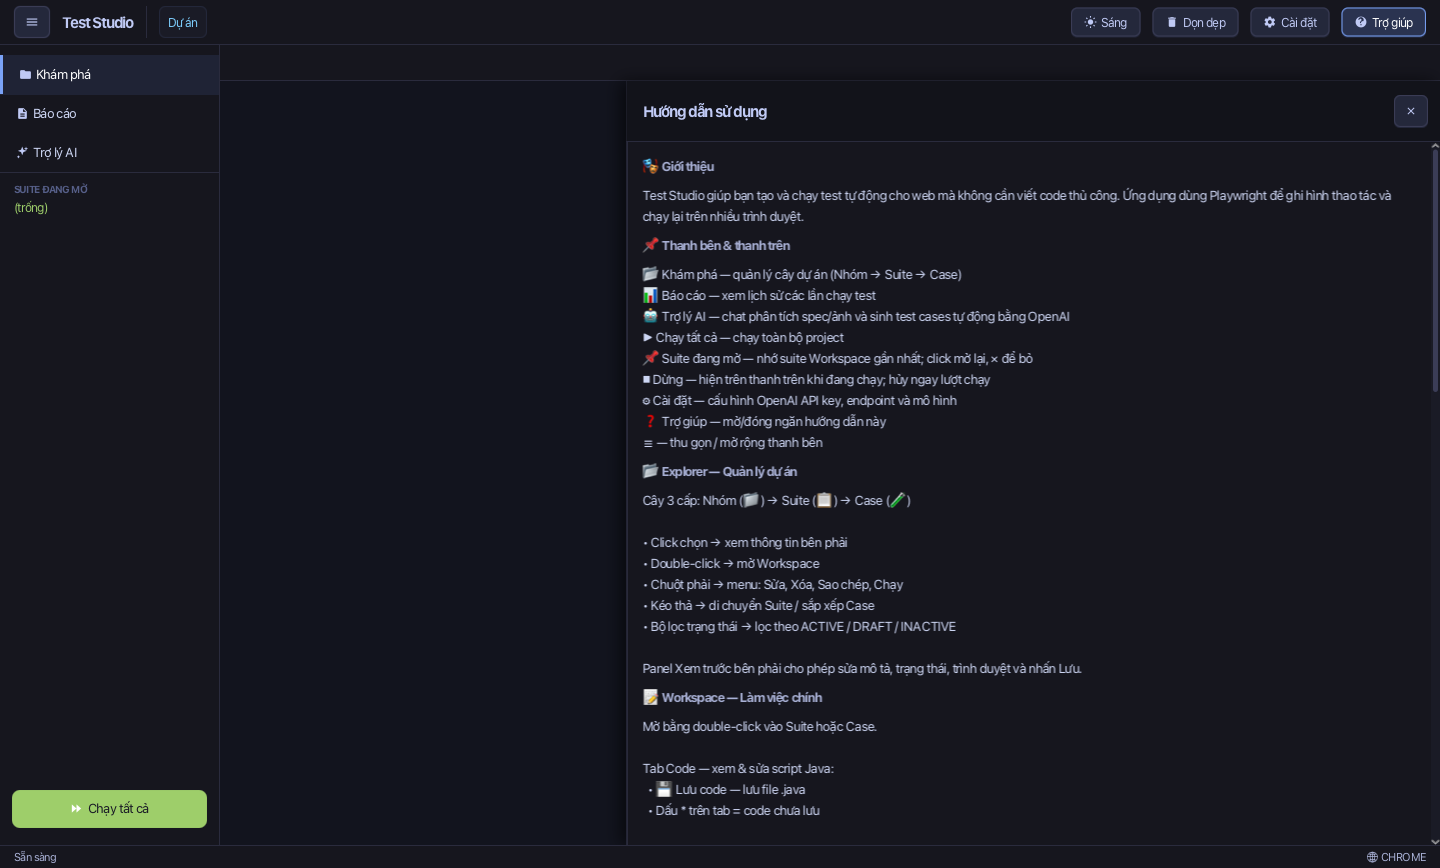
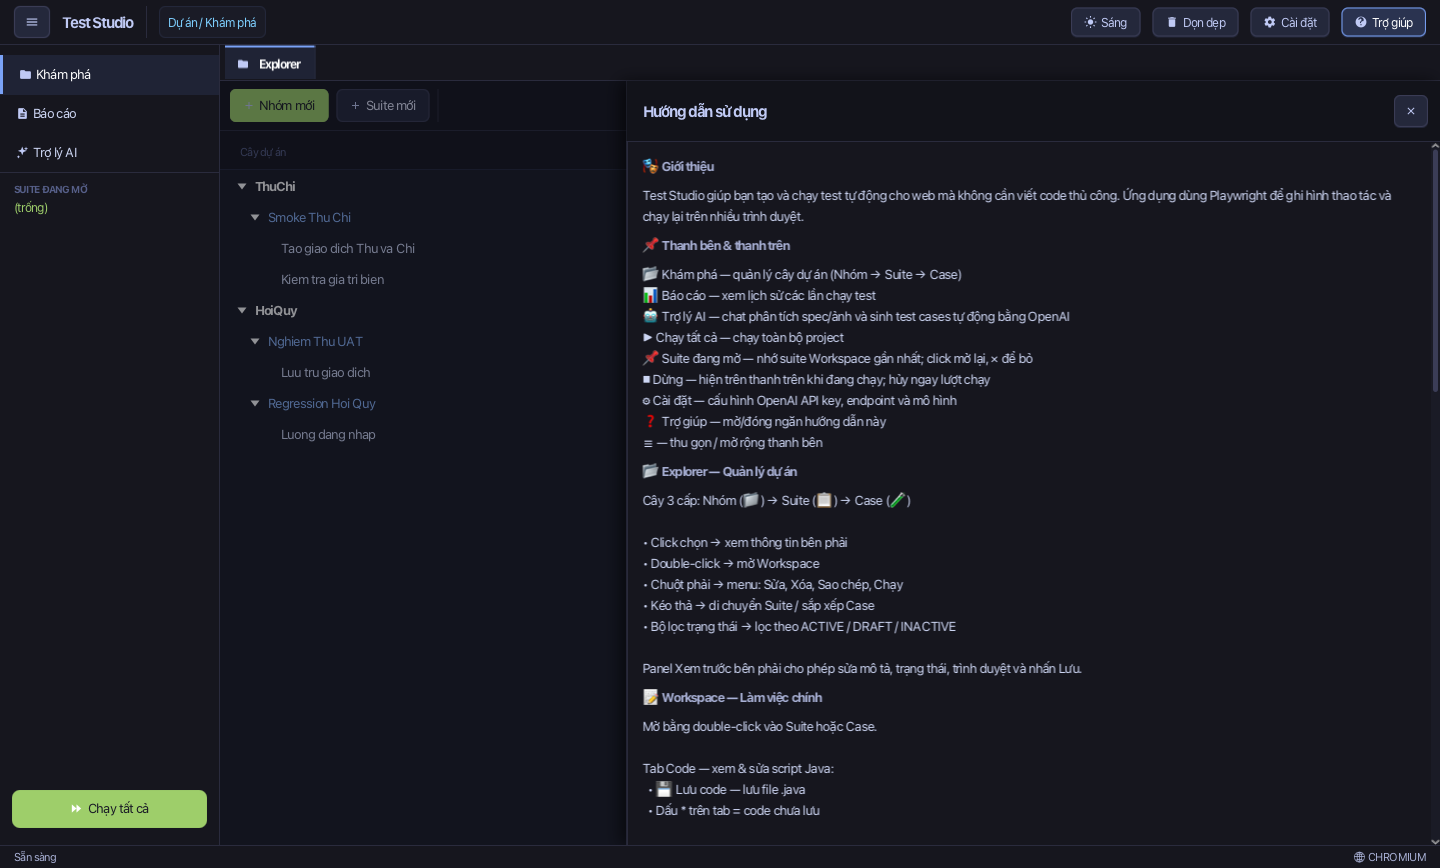
docs(guide): capture real UI screenshots in dark and light themes
Replaces the placeholder captures with screenshots rendered from the
app's own FXML/CSS/controllers on seeded sample data (ThuChi, HoiQuy
suites), one JVM per screen: Explorer, Workspace with a real script,
Assertion Builder with real assertions, Reports list, Report detail,
AI Assistant, Help drawer, and the New Group / New Case / Settings
dialogs. Every screen is captured in both themes; the guide shows the
dark image plus the light counterpart and documents the theme switch.

diff --git a/docs/guide/USER_GUIDE.md b/docs/guide/USER_GUIDE.md
@@ -92,11 +92,21 @@ scripts\build-portable.bat
 
 Lệnh trên tạo gói trong `dist/` chứa JRE, Node.js và Chromium; giải nén và chạy `run.sh` / `run.bat`. Máy đích **không cần** JDK, Node hay Maven. Chi tiết đóng gói: [docs/BUILD.md](../BUILD.md). Có cả script tạo bộ cài (`scripts/build-installer.sh` / `.bat`).
 
+### 2.4. Chủ đề Tối và Sáng
+
+Mọi màn hình trong tài liệu này có **hai phiên bản ảnh**: chủ đề Tối (mặc định, `images/01-explorer.png`) và chủ đề Sáng (`images/light-01-explorer.png`). Chuyển bằng nút **Sáng / Tối** ở góc trên phải — giao diện đổi ngay, không cần khởi động lại.
+
 ---
 
 ## 3. Giao diện tổng quan
 
-![Màn hình Explorer — giao diện chính của Test Studio](images/01-explorer.png)
+**Chủ đề Tối (mặc định):**
+
+![Màn hình Explorer — giao diện chính của Test Studio, chủ đề Tối](images/01-explorer.png)
+
+**Chủ đề Sáng:**
+
+![Cùng màn hình Explorer ở chủ đề Sáng](images/light-01-explorer.png)
 
 Bố cục gồm bốn vùng cố định:
 
@@ -126,6 +136,8 @@ Explorer tổ chức kiểm thử theo **ba cấp**: `Nhóm → Suite → Case`,
 
 ### 4.1. Bố cục
 
+![Explorer — chủ đề Sáng, với cây ThuChi / HoiQuy](images/light-01-explorer.png)
+
 - **Cột trái** — cây dự án. Mỗi dòng có nhãn trạng thái: `● Đang hoạt động` (Suite ACTIVE), `● Sẵn sàng` (Case Ready), `● Nháp` (Draft/DRAFT), `● Ngừng` (Inactive/INACTIVE).
 - **Cột phải — Xem trước** — thông tin của mục đang chọn (tên, mô tả, trạng thái, thống kê `Nhóm / Suite / Case`), kèm nút **Sửa** để cập nhật metadata ngay tại Explorer.
 - **Thanh công cụ** — `+ Nhóm mới`, `+ Suite mới`, ô `Tìm theo tên…`, bộ lọc trạng thái (`Tất cả`, `Hoạt động`, `Nháp`, `Ngừng`).
@@ -150,9 +162,15 @@ Explorer tổ chức kiểm thử theo **ba cấp**: `Nhóm → Suite → Case`,
 
 ## 5. Tạo Nhóm / Suite / Case
 
-Bấm **+ Nhóm mới**, **+ Suite mới** (Explorer) hoặc **+ Case mới** (Workspace) để mở biểu mẫu:
+Bấm **+ Nhóm mới**, **+ Suite mới** (Explorer) hoặc **+ Case mới** (Workspace) để mở biểu mẫu.
 
-![Hộp thoại tạo Nhóm mới](images/02-dialog-new-group.png)
+| Tạo Nhóm mới (Tối) | Tạo Case mới (Tối) |
+|---|---|
+| ![Hộp thoại Tạo nhóm mới](images/02-dialog-new-group.png) | ![Hộp thoại Tạo case mới trong suite](images/09-dialog-new-case.png) |
+
+| Tạo Nhóm mới (Sáng) | Tạo Case mới (Sáng) |
+|---|---|
+| ![Hộp thoại Tạo nhóm mới ở chủ đề Sáng](images/light-02-dialog-new-group.png) | ![Hộp thoại Tạo case mới ở chủ đề Sáng](images/light-09-dialog-new-case.png) |
 
 | Cấp | Trường bắt buộc | Trường tuỳ chọn |
 |---|---|---|
@@ -172,7 +190,9 @@ Bấm **+ Nhóm mới**, **+ Suite mới** (Explorer) hoặc **+ Case mới** (W
 
 Mở bằng double-click vào Suite trong Explorer.
 
-![Workspace với danh sách case, trình soạn code và danh mục assertion](images/03-workspace.png)
+![Workspace — danh sách case, trình soạn code và danh mục assertion (chủ đề Tối)](images/03-workspace.png)
+
+![Cùng Workspace ở chủ đề Sáng](images/light-03-workspace.png)
 
 ### 6.1. Các vùng trong Workspace
 
@@ -231,9 +251,11 @@ Nút **Xuất Excel** trong Workspace xuất danh sách case của suite hiện 
 
 Mở bằng nút **+ Quản lý Asserts** trong Workspace (chọn case trước).
 
-![Assertion Builder](images/04-assert-builder.png)
+![Assertion Builder — danh sách assertion của case (chủ đề Tối)](images/04-assert-builder.png)
 
-> Ảnh chụp bố cục: tiêu đề, ô tìm, danh sách assertion, hàng thêm mới (Loại / Giá trị / Trạng thái / Thêm), hàng Locator, tuỳ chọn *Khớp chính xác* + *Timeout*, và nút `Đóng` / `Lưu Assertions`.
+![Assertion Builder ở chủ đề Sáng](images/light-04-assert-builder.png)
+
+> Ảnh chụp cho thấy đủ các thành phần: tiêu đề, ô tìm, danh sách assertion (kèm nút **Xóa**), hàng thêm mới (Loại / Giá trị / Trạng thái / Thêm), hàng Locator, tuỳ chọn *Khớp chính xác* + *Timeout*, và nút `Đóng` / `Lưu Assertions`.
 
 ### 7.1. Thành phần
 
@@ -281,13 +303,17 @@ Trong một case, **mọi assertion ACTIVE đều được thực thi** dù có 
 
 Mở bằng `Báo cáo` ở thanh bên.
 
-![Trang Báo cáo — lịch sử các lượt chạy](images/05-reports.png)
+![Trang Báo cáo — lịch sử các lượt chạy (chủ đề Tối)](images/05-reports.png)
+
+![Trang Báo cáo ở chủ đề Sáng](images/light-05-reports.png)
 
 Cột: **Mã chạy**, **Phạm vi** (Case / Suite / Group / All), **Mục tiêu**, **Kết quả** (`x Đạt · y Lỗi · z Bỏ qua`), **Thời gian**, **Trình duyệt**, **Bắt đầu**, **Thao tác** (`Mở`, `Html`, `Excel`, `Xóa`). Bộ lọc phía trên: phạm vi, kết quả, suite; nút `Làm mới`.
 
 ### 8.2. Chi tiết lượt chạy
 
-![Chi tiết báo cáo](images/08-report-detail.png)
+![Chi tiết báo cáo (chủ đề Tối)](images/08-report-detail.png)
+
+![Chi tiết báo cáo ở chủ đề Sáng](images/light-08-report-detail.png)
 
 - **Tổng quan** kèm `Xuất HTML`, `Xuất Excel`, `Xóa báo cáo`, `Quay lại`; bộ lọc trạng thái.
 - Bảng **Case**: tên, suite, trạng thái, thời gian, cột **Bằng chứng** (mở ảnh chụp), lý do lỗi.
@@ -309,7 +335,9 @@ File xuất mặc định nằm trong `data/exports/`; hộp thoại lưu cho ph
 
 Mở bằng `Trợ lý AI` ở thanh bên.
 
-![Trang Trợ lý AI](images/06-ai-assistant.png)
+![Trang Trợ lý AI (chủ đề Tối)](images/06-ai-assistant.png)
+
+![Trang Trợ lý AI ở chủ đề Sáng](images/light-06-ai-assistant.png)
 
 ### 9.1. Bố cục
 
@@ -366,7 +394,9 @@ Nút **Sáng/Tối** đổi giao diện tức thời (không cần khởi độn
 
 Nút **Trợ giúp** (❓) mở ngăn bên phải (khoảng 2/3 chiều rộng) — bản tóm tắt thao tác dùng ngay trong lúc làm việc:
 
-![Ngăn trợ giúp](images/07-help-drawer.png)
+![Ngăn trợ giúp bên phải (chủ đề Tối)](images/07-help-drawer.png)
+
+![Ngăn trợ giúp ở chủ đề Sáng](images/light-07-help-drawer.png)
 
 Các mục: Giới thiệu · Thanh bên & thanh trên · Explorer · Workspace · Ghi hình · Chạy test · Assertion Builder · Báo cáo & xuất Excel · Mẹo nhanh. Bấm ra ngoài hoặc `✕` để đóng.
 
